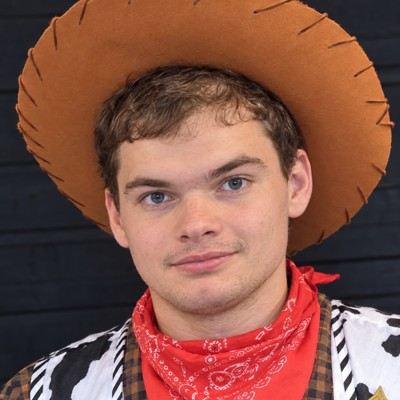
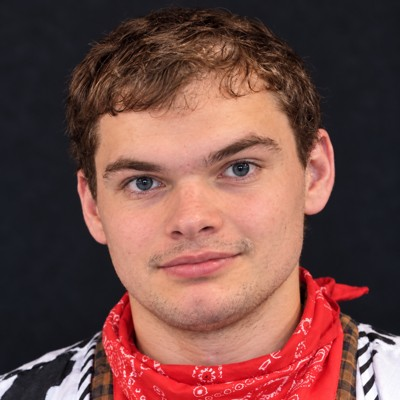
Remove Aiden portrait hat and frame face closely

diff --git a/identification.html b/identification.html
@@ -8,4 +8,4 @@
 
 <div class="th-app"><aside class="th-sidebar"><a class="th-brand" href="./"><span class="th-brand-mark" style="background:transparent;overflow:hidden"><img src="tiszod-crest.svg" alt="" style="width:100%;height:100%;object-fit:contain"></span><span>TisZod<small>Personal workspace</small></span></a><nav aria-label="TisZod pages"><div class="th-nav-label">Main</div><a class="th-nav-link" href="./"><span class="th-nav-icon">⌂</span>Home</a><div class="th-nav-label">Workspaces</div><a class="th-nav-link" href="finance.html"><span class="th-nav-icon" style="overflow:hidden"><img src="finance-mark.svg?v=1" alt="" style="display:block;width:100%;height:100%;object-fit:contain;border-radius:4px"></span>Finance</a><a class="th-nav-link" href="freebirds.html"><span class="th-nav-icon" style="overflow:hidden"><img src="freebirds-logo.svg" alt="" style="display:block;width:100%;height:100%;object-fit:contain;border-radius:4px;object-fit:cover;object-position:50% 72%"></span>Freebirds</a><a class="th-nav-link" href="vehicles.html"><span class="th-nav-icon ram-nav-icon" style="overflow:hidden;position:relative"><img src="ram-nav.webp" alt="" style="position:absolute;display:block;width:128px;height:72px;max-width:none;left:-7px;top:-20px"></span>Vehicles</a><a class="th-nav-link" href="equipment.html"><span class="th-nav-icon" style="overflow:hidden"><img src="husqvarna-mark.svg" alt="" style="display:block;width:100%;height:100%;object-fit:contain;border-radius:4px;background:#fff"></span>Equipment</a><a class="th-nav-link" href="watercraft.html"><span class="th-nav-icon" style="overflow:hidden"><img src="yamaha-mark.svg" alt="" style="display:block;width:100%;height:100%;object-fit:contain;border-radius:4px;background:#fff"></span>Watercraft</a><a class="th-nav-link" href="pets.html"><span class="th-nav-icon" style="overflow:hidden"><img src="pets-mark.svg" alt="" style="display:block;width:100%;height:100%;object-fit:contain;border-radius:4px"></span>Pets</a><div class="th-nav-label">System</div><a class="th-nav-link" href="admin.html"><span class="th-nav-icon">⚙</span>Administration</a></nav><div class="th-sidebar-foot">© 2026 TisZod<br>Private personal workspace</div></aside>
 <div class="th-app-main"><header class="th-app-topbar"><div><strong>Identification</strong><small>Personal documents</small></div><span class="th-connection" id="th-connection">Connecting…</span></header>
-<main class="th-page-content"><div class="identification"><header class="identity-heading"><div><h1>Identification</h1><p>Your important documents, ready when you need them.</p></div><div><button id="identity-refresh">Refresh</button><button id="identity-add">+ Add document</button></div></header><p id="identity-status" role="status" aria-live="polite">Sign in to load your private documents.</p><div class="identity-toolbar"><label>Search<input id="identity-search" type="search" placeholder="Find a document or person"></label><label>Person<select id="identity-person"><option value="">Everyone</option><option>Todd</option><option>Aiden</option><option>Alexis</option><option>Heather</option><option>Tracy</option><option>Todd &amp; Heather</option><option>General</option></select></label><label>Document type<select id="identity-category"><option value="">All types</option><option>DMV</option><option>Social Security Card</option><option>Birth Certificate</option><option>Marriage Certificate</option><option>Proof of Birth Letter</option><option>VDGF</option><option>Other</option></select></label><label>Show<select id="identity-view"><option value="active">Documents</option><option value="deleted">Deleted documents</option></select></label></div><p id="identity-count"></p><section id="identity-pin-section" hidden><h2>Quick access</h2><div id="identity-pinned" class="identity-grid"></div></section><h2>Document library</h2><div id="identity-grid" class="identity-grid"></div></div></main></div></div><dialog id="identity-dialog"><form id="identity-form"><h2>Document details</h2><div class="identity-fields"><label>Document name<input name="name" required maxlength="500"></label><label>Person<select name="person"><option>Todd</option><option>Aiden</option><option>Alexis</option><option>Heather</option><option>Tracy</option><option>Todd &amp; Heather</option><option>General</option></select></label><label>Document type<select name="category"><option>DMV</option><option>Social Security Card</option><option>Birth Certificate</option><option>Marriage Certificate</option><option>Proof of Birth Letter</option><option>VDGF</option><option>Other</option></select></label><label>Expiration date, if applicable<input name="expires" type="date"></label><label>Private file link<input name="url" type="url" required placeholder="https://" maxlength="3000"></label><label>Notes<textarea name="notes" rows="4" maxlength="12000"></textarea></label></div><p id="identity-save-status" role="status"></p><footer><button type="button" id="identity-close">Cancel</button><button type="submit">Save document</button></footer></form></dialog><link rel="stylesheet" href="identification.css?v=aiden-portrait-4"><script src="https://accounts.google.com/gsi/client" async defer></script><script src="file-browser.js?v=1"></script><script src="identification.js?v=20261029-people-photos-2"></script><script src="portal.js?v=20261029-back-timing-5"></script><script src="sheets.js?v=20261029-shared-drive-1"></script></body></html>
+<main class="th-page-content"><div class="identification"><header class="identity-heading"><div><h1>Identification</h1><p>Your important documents, ready when you need them.</p></div><div><button id="identity-refresh">Refresh</button><button id="identity-add">+ Add document</button></div></header><p id="identity-status" role="status" aria-live="polite">Sign in to load your private documents.</p><div class="identity-toolbar"><label>Search<input id="identity-search" type="search" placeholder="Find a document or person"></label><label>Person<select id="identity-person"><option value="">Everyone</option><option>Todd</option><option>Aiden</option><option>Alexis</option><option>Heather</option><option>Tracy</option><option>Todd &amp; Heather</option><option>General</option></select></label><label>Document type<select id="identity-category"><option value="">All types</option><option>DMV</option><option>Social Security Card</option><option>Birth Certificate</option><option>Marriage Certificate</option><option>Proof of Birth Letter</option><option>VDGF</option><option>Other</option></select></label><label>Show<select id="identity-view"><option value="active">Documents</option><option value="deleted">Deleted documents</option></select></label></div><p id="identity-count"></p><section id="identity-pin-section" hidden><h2>Quick access</h2><div id="identity-pinned" class="identity-grid"></div></section><h2>Document library</h2><div id="identity-grid" class="identity-grid"></div></div></main></div></div><dialog id="identity-dialog"><form id="identity-form"><h2>Document details</h2><div class="identity-fields"><label>Document name<input name="name" required maxlength="500"></label><label>Person<select name="person"><option>Todd</option><option>Aiden</option><option>Alexis</option><option>Heather</option><option>Tracy</option><option>Todd &amp; Heather</option><option>General</option></select></label><label>Document type<select name="category"><option>DMV</option><option>Social Security Card</option><option>Birth Certificate</option><option>Marriage Certificate</option><option>Proof of Birth Letter</option><option>VDGF</option><option>Other</option></select></label><label>Expiration date, if applicable<input name="expires" type="date"></label><label>Private file link<input name="url" type="url" required placeholder="https://" maxlength="3000"></label><label>Notes<textarea name="notes" rows="4" maxlength="12000"></textarea></label></div><p id="identity-save-status" role="status"></p><footer><button type="button" id="identity-close">Cancel</button><button type="submit">Save document</button></footer></form></dialog><link rel="stylesheet" href="identification.css?v=aiden-face-5"><script src="https://accounts.google.com/gsi/client" async defer></script><script src="file-browser.js?v=1"></script><script src="identification.js?v=20261029-people-photos-2"></script><script src="portal.js?v=20261029-back-timing-5"></script><script src="sheets.js?v=20261029-shared-drive-1"></script></body></html>

diff --git a/identification.css b/identification.css
@@ -7,4 +7,4 @@
 
 .person-profile .person-photo{width:84px;height:84px;background-image:url('command-photos/family-portraits.jpg');background-size:460% auto;background-repeat:no-repeat;background-position:2.0833% 41%;box-shadow:0 3px 12px #0004}.person-todd .person-photo{background-position:34.0278% 41%}.person-alexis .person-photo{background-position:65.9722% 41%}.person-tracy .person-photo{background-position:97.9167% 41%}
 
-.person-profile.person-aiden .person-photo{background-image:url('command-photos/aiden-portrait.jpg?v=1');background-size:cover;background-position:center;}
+.person-profile.person-aiden .person-photo{background-image:url('command-photos/aiden-portrait.jpg?v=2');background-size:cover;background-position:center;}
